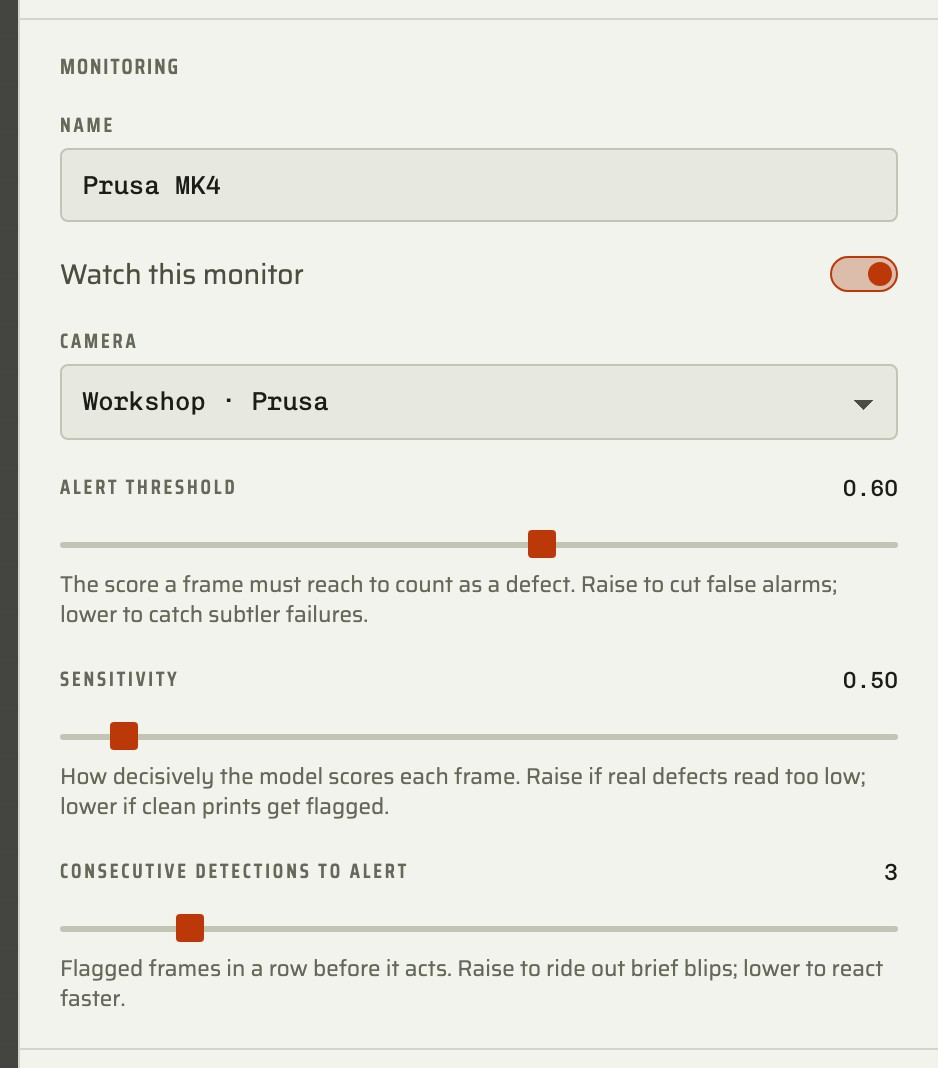
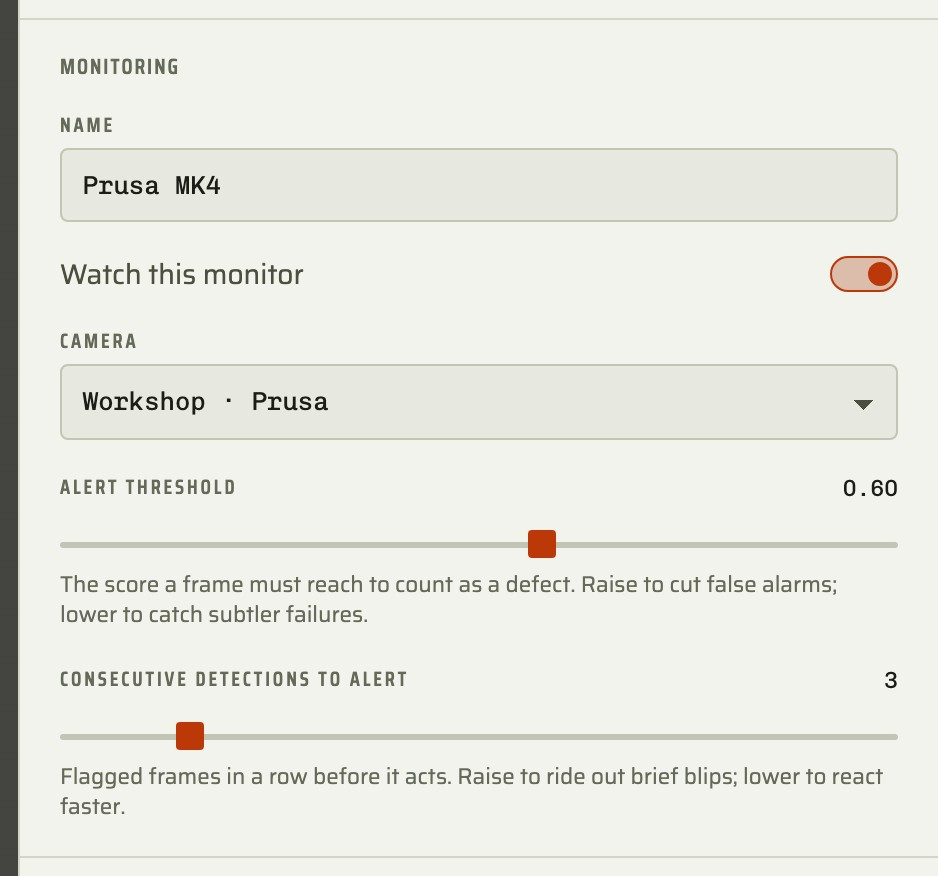
Drop the sensitivity slider now the threshold alone sets the alert line

diff --git a/web/src/guide.tsx b/web/src/guide.tsx
@@ -197,10 +197,10 @@ export const GUIDE: GuideSection[] = [
     shot: "tuning",
     body: (
       <>
-        Every frame is scored against failure prototypes. <strong>Alert threshold</strong> sets how
-        high that score must reach, <strong>sensitivity</strong> widens or narrows the margin, and a
-        defect must hold for a number of <strong>consecutive detections</strong> before PrintGuard
-        acts. Tune it all per monitor from its detail panel.
+        Every frame is scored with the model's confidence that the print is failing.{" "}
+        <strong>Alert threshold</strong> sets how high that score must reach, and a defect must hold
+        for a number of <strong>consecutive detections</strong> before PrintGuard acts. Tune both per
+        monitor from its detail panel.
       </>
     ),
   },

diff --git a/web/src/components/DetailPanel.tsx b/web/src/components/DetailPanel.tsx
@@ -123,15 +123,6 @@ export function DetailPanel({ monitor }: { monitor: Monitor }) {
               onChange={(v) => updateMonitor(monitor.id, { threshold: v })}
             />
             <Slider
-              label="Sensitivity"
-              value={monitor.sensitivity}
-              min={0.2}
-              max={5}
-              step={0.1}
-              hint="How decisively the model scores each frame. Raise if real defects read too low; lower if clean prints get flagged."
-              onChange={(v) => updateMonitor(monitor.id, { sensitivity: v })}
-            />
-            <Slider
               label="Consecutive detections to alert"
               value={monitor.consecutive}
               min={1}

diff --git a/web/screenshots/capture.spec.ts b/web/screenshots/capture.spec.ts
@@ -45,7 +45,7 @@ const PREHEAT = [
 ];
 
 const monitor = (id: string, name: string, camera_id: string, printer_id: string, alerting = false): Monitor => ({
-  id, name, camera_id, printer_id, enabled: true, threshold: 0.6, sensitivity: 0.5, consecutive: 3,
+  id, name, camera_id, printer_id, enabled: true, threshold: 0.6, consecutive: 3,
   notify: true, on_defect: "pause", cooldown_s: 90, watching: true,
   alert: alerting ? { score: 0.86, action: "pause", ts: NOW } : null,
 });

diff --git a/web/tests/sandbox.spec.ts b/web/tests/sandbox.spec.ts
@@ -152,7 +152,7 @@ plugin.render((ctx) => {
 `;
 
 const MONITOR = {
-  id: "m1", name: "Bench", camera_id: "c1", printer_id: "", enabled: true, threshold: 0.6, sensitivity: 1,
+  id: "m1", name: "Bench", camera_id: "c1", printer_id: "", enabled: true, threshold: 0.6,
   consecutive: 3, notify: true, on_defect: "pause", cooldown_s: 30, alert: null, watching: true, result: null,
 };
 

diff --git a/web/src/types.ts b/web/src/types.ts
@@ -105,7 +105,6 @@ export interface Monitor {
   printer_id: string;
   enabled: boolean;
   threshold: number;
-  sensitivity: number;
   consecutive: number;
   notify: boolean;
   on_defect: "none" | "pause" | "cancel";
